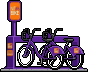
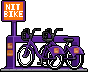
fix: placa da nitbike legível
O texto da placa não estava pequeno, estava inexistente: dentro de uma área
laranja de 10x18 pixels o NIT BIKE era um borrão de 2px de altura, então
aumentar o sprite não revelaria nada.

A placa cresce para o espaço vazio dos dois lados do poste (de 15x22 para
25x22) e o texto é redesenhado com uma fonte de 4x6, que sobrevive à escala
da arena. As cores da moldura e do miolo saem do próprio sprite, para a placa
nova não destoar.

O sprite também sobe de 70 para 73px de altura, o teto imposto pela linha do
chão: acima disso o totem vazaria do segmento e apareceria por cima do
asfalto.

Changed region(s): [[0.0, 0.0, 0.2955, 0.3056]]

diff --git a/src/features/TravessiaSegura/components/SidewalkDecoration.jsx b/src/features/TravessiaSegura/components/SidewalkDecoration.jsx
@@ -33,7 +33,7 @@ const MS_POR_QUADRO = 190;
 const ELEMENTOS = [
   { src: banco, altura: 40, proporcao: 71 / 49 },
   { src: hidrante, altura: 44, proporcao: 43 / 54 },
-  { src: nitbike, altura: 70, proporcao: 88 / 72 },
+  { src: nitbike, altura: 73, proporcao: 88 / 72 },
   { src: pontoOnibus, altura: 72, proporcao: 86 / 55 },
   { quadros: CICLO_POMBO, altura: 20, proporcao: 89 / 82, bicho: true, repetivel: true },
   { quadros: CICLO_CACHORRO, altura: 27, proporcao: 32 / 28, bicho: true, msPorQuadro: 130 },
